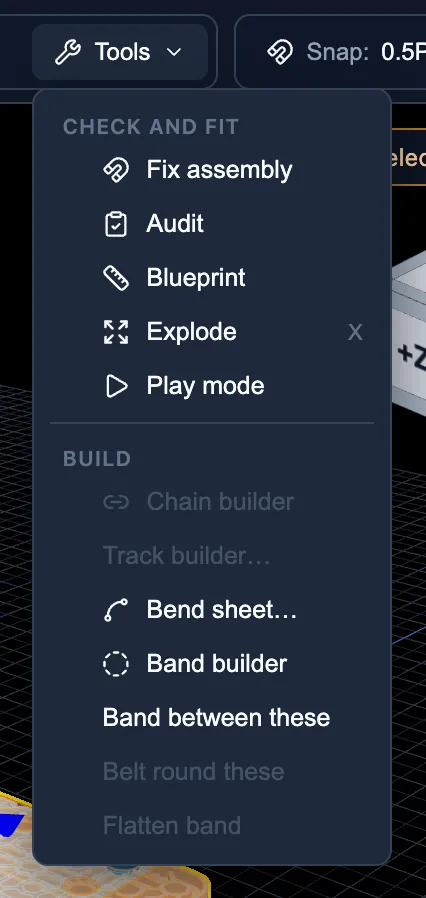
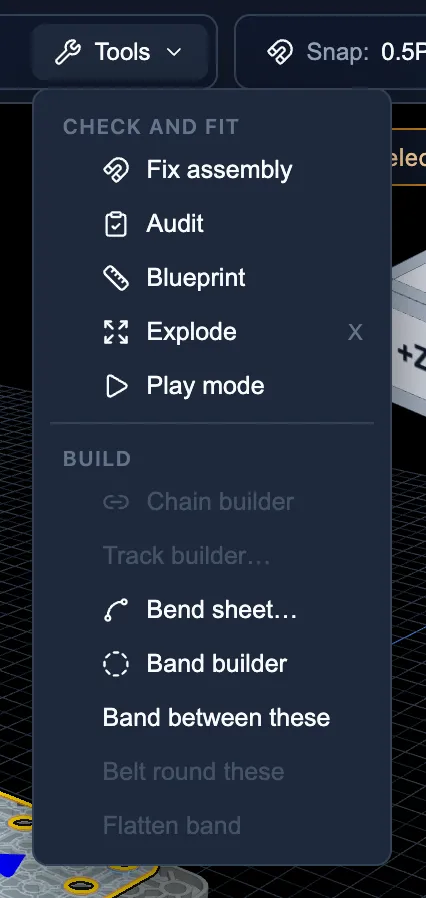
docs: help read-through of the mechanism pages
Followed the chain and track, rubber band, plastic sheet, gear, shaft and
pin pages in the app and fixed wording that didn't match: Band builder
controls and mouse/touch hooking, Bend sheet "no row" reasons, chain
greyed reasons and the "In the way" message. Retook the two Bend sheet
pictures, which had the wrong beam selected.

Claude-Session: https://claude.ai/code/session_01UpAZsf2Xo3b8EH1VPP5ePA

Changed region(s): [[0.0, 0.8731, 0.5188, 1.0]]

diff --git a/src/help/pages/rubber-bands.md b/src/help/pages/rubber-bands.md
@@ -13,7 +13,7 @@ A band or belt goes round the spots you pick, in order. The app draws it and tel
 
 1. Choose **Tools → Band builder** [[Tools → Band builder]] (2).
    ![The Tools menu with Band builder marked](shot:bands-menu)
-2. {{Click|Tap}} a post, pin, pulley, tooth gap or beam end. {{Click|Tap it again}} to hook the band on.
+2. {{Click a post, pin, pulley, tooth gap or beam end to hook the band on.|Tap a post, pin, pulley, tooth gap or beam end to light it. Tap it again to hook the band on.}}
 3. Pick the next spots in the order the band goes round.
 4. Choose a size, or leave **Choose for me**.
    ![The Band builder panel](shot:bands-panel)
@@ -30,7 +30,7 @@ Bands are #32, #64 and #117B. Belts are 2x30 mm, 2x40 mm, 2x50 mm and 2x60 mm. T
 A standoff or pin is a post. A pulley has a groove. A gear or sprocket has numbered tooth gaps; the number turns with the gear. A beam has its ends, corners and edges. The little picture of a gear shows the numbers.
 
 ## Going another way round
-**Outside** and **Inside** choose which side of a spot the band goes. **Other way round** shows the next way past the parts between, over them or under them. With two spots the band goes there and back. With three or more it makes a loop. Choose **Goes** to force one.
+**Outside** and **Inside** choose which side of a spot the band goes. **Other way round** shows the next way past the parts between, over them or under them. With two spots the band goes there and back. With three or more it makes a loop. Under **Goes**, choose **There and back** or **Loop** to force one. **Other way round** is greyed when there is no other way. **Cross** on a spot makes the band cross over on its way to the next spot, like a figure 8.
 
 ## Stretch colours and refusals
 Grey is slack, green is snug, amber is tight, red is too far. A band that would hang loose is refused, and the message says which size fits. A band that must pass through a part asks **Over** or **Under**.
@@ -45,6 +45,6 @@ Select the band to see its size and stretch in Properties. **Edit route** moves 
 A band follows its parts when they move. In [Play mode](help:play-mode) it pulls on them, harder when it stretches more.
 
 ## Wraps and taking a spot off
-In the Band builder list, Fewer wraps and More wraps change how many times the band goes round a spot, from 1 to 3.
+In the Band builder list, Fewer wraps (**−**) and More wraps (**+**) sit beside a spot. They set how many times the band goes round it, from 1× to 3×.
 
-Take this spot off removes a spot from the band. In the 3D view, right-click a spot, or Alt+click it, to do the same. Drag a band's handle onto another spot to move where it hooks on.
+Take this spot off (the bin button) removes a spot from the band. In the 3D view, right-click a spot, or Alt+click it, to do the same. Drag a band's handle onto another spot to move where it hooks on.

diff --git a/src/help/pages/plastic-sheets.md b/src/help/pages/plastic-sheets.md
@@ -19,12 +19,12 @@ A plastic sheet can curve round a robot. Pin it flat first, then bend it onto an
 5. Press [[Apply]] (2).
    ![The Bend sheet window with Apply marked](shot:sheets-dialog)
 
-> **Tip** To undo a bend, select the sheet alone and choose [[Flatten]].
+> **Tip** To undo a bend, select the sheet alone, choose **Tools → Bend sheet…** and press [[Flatten]].
 
 <!-- more -->
 
 ## Choosing the rows
-Each choice names a sheet row and the part face it reaches. It also says how many holes line up. The first choice is picked for you. Double-click a choice to apply it.
+Each choice names a sheet row and the part face it reaches, like "sheet row 6 → 1x8 Beam #1, upper face". The first choice is picked for you. Double-click a choice to apply it.
 
 ## Anchoring more rows
 A bent sheet can be anchored again. Select it with another part, choose **Tools → Bend sheet…**, and pick the next row. Do one row at a time.
@@ -33,7 +33,7 @@ A bent sheet can be anchored again. Select it with another part, choose **Tools 
 Select a bent sheet on its own and choose **Tools → Bend sheet…**. [[Flatten]] puts it back flat through the rows that were pinned.
 
 ## When no row fits
-The window says no row can be anchored there, and why. Maybe no holes line up, the sheet would bend too tightly, or it would pass through a part.
+The window says no row of the sheet can be anchored there, and lists each row with why. A common reason is that the holes of the row and the part's holes aren't the same distance apart. Others are that the sheet would bend too tightly, or would pass through a part.
 
 ## Stacked sheets and flexing
 A sheet on a sheet sits a hair above it. A sheet pressed a little into a part flexes. The audit calls that a tight fit, not an overlap. See [Check and fix your build](help:check-and-fix).

diff --git a/src/help/pages/chain-and-track.md b/src/help/pages/chain-and-track.md
@@ -23,10 +23,12 @@ Chain and track go round sprockets. The app builds the whole loop for you.
 <!-- more -->
 
 ## When the Chain builder is greyed out
-Point at the greyed item to read why. "Select two or more sprockets in one plane" means pick more sprockets, or move one along its shaft. "The sprockets' axles aren't parallel" means one sprocket is tilted.
+Point at the greyed item to read why. "Select two or more sprockets in one plane" means pick more sprockets, or move one along its shaft. "The sprockets' axles aren't parallel" means one sprocket is tilted. "Chain and track fit sprockets, not gears" means you picked gears.
 
 ## Standoffs and parts in the way
 A standoff you select with the sprockets is a smooth round guide for the chain. Any other part you select, like a beam, is something the chain bends round. A part inside the loop or in a run's way gets an **Under** and **Over** question: does the chain pass below it or above it? **Build** stays greyed until every part has an answer.
+
+A message after the build can say "In the way" and name a part. The chain is built, but that part is in its path. Select it with the sprockets, or move it, then build again.
 
 ## If the chain sags
 The builder never makes a chain too tight. If it needs a longer loop, a window asks **Slack on** the **Lower run** or **Upper run**. The message says how far to move a sprocket for an exact fit. Move it that way and build again.

diff --git a/openspec/follow-ups.md b/openspec/follow-ups.md
@@ -77,4 +77,4 @@ Low-priority items left open when a change was closed. Pick one up by proposing 
 19. **On a phone the history branch list runs a few pixels past the right edge.**
 20. **The capture driver's `text:` spec can't find a button that has an icon as well as text** (`scripts/help-shots/app.mjs`).
 21. **The help-content spec's Explode entry names direction choices the app doesn't have**; the page is right, so fix the spec text when archiving.
-22. **Read-through still to finish** (in-app-help tasks 6.2–6.9, 7.2, 7.3): touch passes on the Basics pages; Track builder, Band builder and Bend sheet steps; gear meshing; the shortcuts and troubleshooting sample; `words`; reading every page at 420 and 390 px; tapping every Show me chip.
+22. **Read-through still to finish** (in-app-help tasks 6.2–6.9, 7.2, 7.3): touch passes on the Basics pages and on the six Mechanisms pages (6.4, 6.5: pins, shafts, gears, chain, bands, sheets were followed by mouse only); not yet tried in the app: the Chain builder Slack on / Over-Under windows, Track builder Build, Belt round these, picking sheet holes by hand, Smart Motor on four pins and the omni wheel / lock beam, Play mode "Stalled"; the shortcuts and troubleshooting sample; `words`; reading every page at 420 and 390 px; tapping every Show me chip.

diff --git a/src/help/pages/shafts-and-wheels.md b/src/help/pages/shafts-and-wheels.md
@@ -26,7 +26,7 @@ Build a driven wheel in the order the parts really go on. An axle is the same th
 ## Plain shafts, motor shafts and the stop ring
 A motor shaft, like the 2x Pitch Motor Shaft, has a stop ring near one end. The ring can't pass through a hole. The short end past the ring goes into the motor's socket. The long end comes out the other side of the plate and carries the wheel or gear.
 
-Put the shaft through the plate before the motor goes on. If it goes in with the ring the wrong way, step through the other fits, as shown in [Stepping through fits](help:joining#stepping-through-fits). Then the ring sits between the plate and the motor, and the shaft can't fall out. A plain shaft has no ring.
+Put the shaft through the plate before the motor goes on. Then the ring sits between the plate and the motor, and the shaft can't fall out. If the shaft goes in with the ring the wrong way round, step through the other fits, as shown in [Stepping through fits](help:joining#stepping-through-fits). A plain shaft has no ring.
 
 ## A free axle
 A motor shaft with no motor is a free axle. Put its stop ring against one face of the beam or plate it goes through. The long end carries the wheel.
